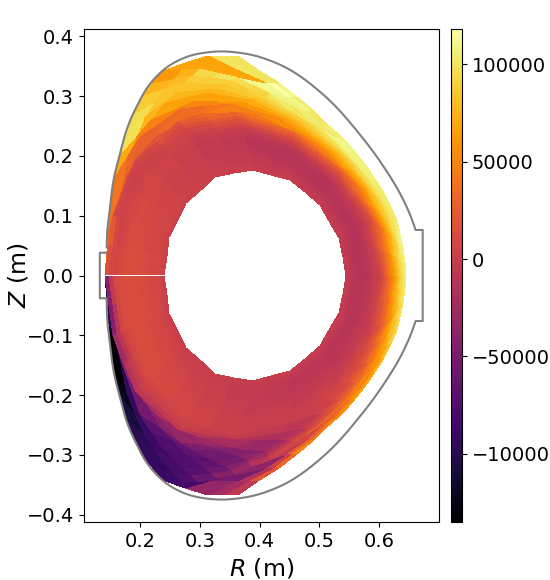
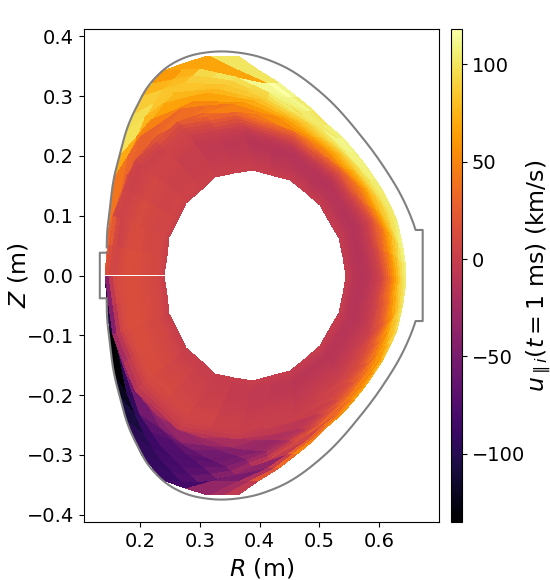
Switch upar_i to km/s. Add comp plot of moments on R-Z plane.

Changed region(s): [[0.8964, 0.2483, 1.0, 0.6828], [0.9582, 0.7759, 1.0, 0.8069], [0.9273, 0.0931, 0.9891, 0.1241]]

diff --git a/comp/compare_gkeyll_xgc_ltx_2x.py b/comp/compare_gkeyll_xgc_ltx_2x.py
@@ -25,8 +25,9 @@ import ltx_common_util as lcu
 
 plot_grids_RZ_li863mg           = False  #[ Grids on the R-Z plane of 863 mg simulation.
 plot_den_omp_init_li863mg       = False  #[ Initial n at outboard midplane (OMP) of 863 mg simulation.
-plot_den_temp_omp_init_li863mg  = True  #[ Initial n and T profiles at OMP.
+plot_den_temp_omp_init_li863mg  = False  #[ Initial n and T profiles at OMP.
 plot_den_temp_omp_final_li863mg = False  #[ Final n and T profiles at OMP.
+plot_den_temp_RZ_final_li863mg  = True  #[ Final n and T profiles on R-Z plane.
 
 gke_data_dir = '../gkeyll/data/' #[ Location of reduced Gkeyll data.
 xgc_data_dir = '../xgc/data/' #[ Location of reduced XGC data.
@@ -338,3 +339,137 @@ if plot_den_temp_omp_final_li863mg:
 
 #................................................................................#
 
+if plot_den_temp_RZ_final_li863mg:
+  #[ Final n and T profiles on R-Z plane.
+
+  species = 'ion' #[ Species name, 'elc' or 'ion'
+
+  gke_data_file = [
+    gke_data_dir+'ltx_gkeyll_li863mg_final_'+species+'_den_RZ.h5',
+    gke_data_dir+'ltx_gkeyll_li863mg_final_'+species+'_upar_RZ.h5',
+    gke_data_dir+'ltx_gkeyll_li863mg_final_'+species+'_tpar_RZ.h5',
+    gke_data_dir+'ltx_gkeyll_li863mg_final_'+species+'_tperp_RZ.h5',
+  ]
+  xgc_data_file = [
+    gke_data_dir+'ltx_gkeyll_li863mg_final_'+species+'_den_RZ.h5',
+    gke_data_dir+'ltx_gkeyll_li863mg_final_'+species+'_upar_RZ.h5',
+    gke_data_dir+'ltx_gkeyll_li863mg_final_'+species+'_tpar_RZ.h5',
+    gke_data_dir+'ltx_gkeyll_li863mg_final_'+species+'_tperp_RZ.h5',
+  ]
+
+  wall_file = '/global/homes/m/mana/perlmutter/gkeyll/code/gkyl-sims/ltx_gkeyll_xgc/experiment/LTXvessel.csv'
+
+  xlabel = r'$R$ (m)'
+  ylabel = r'$Z$ (m)'
+
+  #[ Load data.
+  gke_data = [h5py.File(gke_data_file[i], "r") for i in range(len(gke_data_file))]
+  spl00_x = lcu.h5data_to_numpy_array(gke_data[0], 'subplot00_xvalues')
+  spl00_y = lcu.h5data_to_numpy_array(gke_data[0], 'subplot00_yvalues')
+  spl00_z = lcu.h5data_to_numpy_array(gke_data[0], 'subplot00_zvalues')
+  spl01_x = lcu.h5data_to_numpy_array(gke_data[1], 'subplot00_xvalues')
+  spl01_y = lcu.h5data_to_numpy_array(gke_data[1], 'subplot00_yvalues')
+  spl01_z = lcu.h5data_to_numpy_array(gke_data[1], 'subplot00_zvalues')
+  spl02_x = lcu.h5data_to_numpy_array(gke_data[2], 'subplot00_xvalues')
+  spl02_y = lcu.h5data_to_numpy_array(gke_data[2], 'subplot00_yvalues')
+  spl02_z = lcu.h5data_to_numpy_array(gke_data[2], 'subplot00_zvalues')
+  spl03_x = lcu.h5data_to_numpy_array(gke_data[3], 'subplot00_xvalues')
+  spl03_y = lcu.h5data_to_numpy_array(gke_data[3], 'subplot00_yvalues')
+  spl03_z = lcu.h5data_to_numpy_array(gke_data[3], 'subplot00_zvalues')
+  for i in range(len(gke_data_file)):
+    gke_data[i].close()
+
+  xgc_data = [h5py.File(xgc_data_file[i], "r") for i in range(len(xgc_data_file))]
+  spl10_x = lcu.h5data_to_numpy_array(xgc_data[0], 'subplot00_xvalues')
+  spl10_y = lcu.h5data_to_numpy_array(xgc_data[0], 'subplot00_yvalues')
+  spl10_z = lcu.h5data_to_numpy_array(xgc_data[0], 'subplot00_zvalues')
+  spl11_x = lcu.h5data_to_numpy_array(xgc_data[1], 'subplot00_xvalues')
+  spl11_y = lcu.h5data_to_numpy_array(xgc_data[1], 'subplot00_yvalues')
+  spl11_z = lcu.h5data_to_numpy_array(xgc_data[1], 'subplot00_zvalues')
+  spl12_x = lcu.h5data_to_numpy_array(xgc_data[2], 'subplot00_xvalues')
+  spl12_y = lcu.h5data_to_numpy_array(xgc_data[2], 'subplot00_yvalues')
+  spl12_z = lcu.h5data_to_numpy_array(xgc_data[2], 'subplot00_zvalues')
+  spl13_x = lcu.h5data_to_numpy_array(xgc_data[3], 'subplot00_xvalues')
+  spl13_y = lcu.h5data_to_numpy_array(xgc_data[3], 'subplot00_yvalues')
+  spl13_z = lcu.h5data_to_numpy_array(xgc_data[3], 'subplot00_zvalues')
+  for i in range(len(xgc_data_file)):
+    xgc_data[i].close()
+
+  #[ Prepare figure.
+  fig_prop  = (16., 8.)
+  ax_pos    = [[0.08, 0.52, 0.20, 0.40],[0.29, 0.52, 0.20, 0.40],[0.50, 0.52, 0.20, 0.40],[0.71, 0.52, 0.20, 0.40],
+               [0.08, 0.10, 0.20, 0.40],[0.29, 0.10, 0.20, 0.40],[0.50, 0.10, 0.20, 0.40],[0.71, 0.10, 0.20, 0.40], ]
+  cbax_pos  = [[0.26, 0.10, 0.01, 0.82],[0.47, 0.10, 0.01, 0.82],[0.68, 0.10, 0.01, 0.82],[0.89, 0.10, 0.01, 0.82], ]
+  fig_h     = plt.figure(figsize=fig_prop)
+  ax_h      = [fig_h.add_axes(pos) for pos in ax_pos]
+  cbax_h    = [fig_h.add_axes(pos) for pos in cbax_pos]
+
+  for i in range(len(ax_h)):
+    ax_h[i].set_aspect('equal')
+
+  #[ Plot data.
+  hpla, hplb, hplc, hpld = list(), list(), list(), list(),
+  hpla.append(ax_h[0].pcolormesh(spl00_x, spl00_y, spl00_z, cmap='inferno'))
+  hplb.append(ax_h[1].pcolormesh(spl01_x, spl01_y, spl01_z, cmap='inferno'))
+  hplc.append(ax_h[2].pcolormesh(spl02_x, spl02_y, spl02_z, cmap='inferno'))
+  hpld.append(ax_h[3].pcolormesh(spl03_x, spl03_y, spl03_z, cmap='inferno'))
+
+  hple, hplf, hplg, hplh = list(), list(), list(), list(),
+  hple.append(ax_h[4+0].pcolormesh(spl10_x, spl10_y, spl10_z, cmap='inferno'))
+  hplf.append(ax_h[4+1].pcolormesh(spl11_x, spl11_y, spl11_z, cmap='inferno'))
+  hplg.append(ax_h[4+2].pcolormesh(spl12_x, spl12_y, spl12_z, cmap='inferno'))
+  hplh.append(ax_h[4+3].pcolormesh(spl13_x, spl13_y, spl13_z, cmap='inferno'))
+
+  #[ Plot wall
+  wall_data = np.loadtxt(open(wall_file),delimiter=',')
+  wall_h = list()
+  for i in range(len(ax_h)):
+    wall_h.append(ax_h[i].plot(wall_data[:,0],wall_data[:,1],color="grey"))
+
+  #[ Add colorbar.
+  hpl_gke = [hpla, hplb, hplc, hpld]
+  hcb_all = [plt.colorbar(hpl_gke[i][0], ax=ax_h[i], cax=cbax_h[i]) for i in range(len(hpl_gke))]
+  for i in range(len(hcb_all)):
+    hcb_all[i].ax.tick_params(labelsize=lcu.tick_font_size)
+    hcb_all[i].ax.yaxis.get_offset_text().set_fontsize(lcu.tick_font_size)
+
+  for i in range(4):
+    ax_h[4+i].set_xlabel(xlabel, fontsize=lcu.xy_label_font_size)
+    ax_h[4+i].xaxis.get_offset_text().set_size(lcu.tick_font_size)
+    plt.setp( ax_h[i].get_xticklabels(), visible=False)
+
+  for i in range(3):
+    plt.setp( ax_h[1+i].get_yticklabels(), visible=False)
+    plt.setp( ax_h[5+i].get_yticklabels(), visible=False)
+
+  ax_h[0].set_ylabel(ylabel, fontsize=lcu.xy_label_font_size, labelpad=-3)
+  ax_h[0].yaxis.get_offset_text().set_size(lcu.tick_font_size)
+  ax_h[4].set_ylabel(ylabel, fontsize=lcu.xy_label_font_size, labelpad=-3)
+  ax_h[4].yaxis.get_offset_text().set_size(lcu.tick_font_size)
+  for i in range(len(ax_h)):
+    lcu.set_tick_font_size(ax_h[i],lcu.tick_font_size)
+
+  plt.text(-0.6, 0.34, r'Gkeyll', fontsize=32, color='black', transform=ax_h[0].transAxes, rotation=90,)
+  plt.text(-0.6, 0.39, r'XGC', fontsize=32, color='black', transform=ax_h[4].transAxes, rotation=90,)
+  plt.text(0.3, 1.05, r'$n_{:s}$ (m${:s}$)'.format(species[0],'^{-3}')       , fontsize=20, color='black', transform=ax_h[0].transAxes,)
+  plt.text(0.3, 1.05, r'$u_{:s}$ (km/s)'.format('{\parallel '+species[0]+'}'), fontsize=20, color='black', transform=ax_h[1].transAxes,)
+  plt.text(0.3, 1.05, r'$T_{:s}$ (eV)'.format('{\parallel '+species[0]+'}')  , fontsize=20, color='black', transform=ax_h[2].transAxes,)
+  plt.text(0.3, 1.05, r'$T_{:s}$ (eV)'.format('{\perp '+species[0]+'}')      , fontsize=20, color='black', transform=ax_h[3].transAxes,)
+
+  if output_figure_file:
+    fig_file_name = output_prefix+fig_file_name_root
+
+    if save_data:
+      h5f = h5py.File(out_data_dir+fig_file_name+'.h5', "w")
+      h5f.create_dataset('subplot00_xvalues', np.shape(spl00_x), dtype='f8', data=spl00_x)
+      h5f.create_dataset('subplot00_yvalues', np.shape(spl00_y), dtype='f8', data=spl00_y)
+      h5f.create_dataset('subplot00_zvalues', np.shape(spl00_z), dtype='f8', data=spl00_z)
+      h5f.close()
+
+    fig_h.savefig(out_fig_dir+fig_file_name+figure_file_format)
+    plt.close()
+
+  else:
+    plt.show()
+
+#................................................................................#

diff --git a/gkeyll/postprocess_gkeyll_ltx_2x.py b/gkeyll/postprocess_gkeyll_ltx_2x.py
@@ -677,16 +677,16 @@ if plot_vs_RZ:
   data_dir = '/pscratch/sd/m/mana/gkeyll/ltx/2d/li863mg_103955_04-base/'
 
   quant      = 'ion_BiMaxwellianMoments' #[ Quantity to plot.
-  quant_comp = 'tperp'                    #[ Component in file (den, upar, tpar, tperp, temp, or an int).
-  scale_fac  = 1.0               #[ Factor to multiply data by.
-  scale_fac  = lcu.mass_ion/lcu.eV               #[ Factor to multiply data by.
+  quant_comp = 'upar'                    #[ Component in file (den, upar, tpar, tperp, temp, or an int).
+  scale_fac  = 1.0e-3               #[ Factor to multiply data by.
+#  scale_fac  = lcu.mass_ion/lcu.eV               #[ Factor to multiply data by.
 #  zlabel     = r'$n_i(t=1~\mathrm{ms})$ (m$^{-3}$)'       #[ Label for y axis.
-#  zlabel     = r'$u_{\parallel i}(t=1~\mathrm{ms})$ (m/s)'       #[ Label for y axis.
+  zlabel     = r'$u_{\parallel i}(t=1~\mathrm{ms})$ (km/s)'       #[ Label for y axis.
 #  zlabel     = r'$T_{\parallel i}(t=1~\mathrm{ms})$ (eV)'       #[ Label for y axis.
-  zlabel     = r'$T_{\perp i}(t=1~\mathrm{ms})$ (eV)'       #[ Label for y axis.
+#  zlabel     = r'$T_{\perp i}(t=1~\mathrm{ms})$ (eV)'       #[ Label for y axis.
   frame      = 20                         #[ Frame number.
 
-  fig_file_name_root = lcu.li863_prefix+'final_ion_tperp_RZ'
+  fig_file_name_root = lcu.li863_prefix+'final_ion_upar_RZ'
 
   wall_file = '/global/homes/m/mana/perlmutter/gkeyll/code/gkyl-sims/ltx_gkeyll_xgc/experiment/LTXvessel.csv'
 
